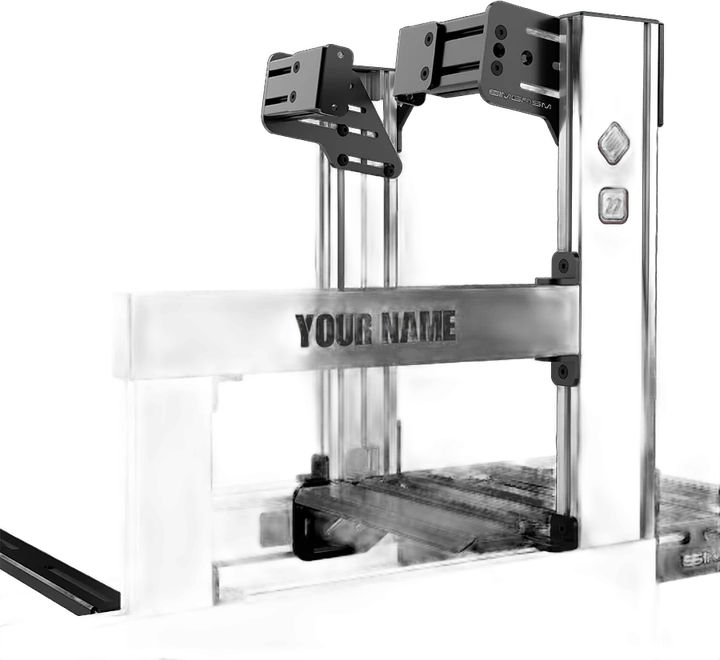
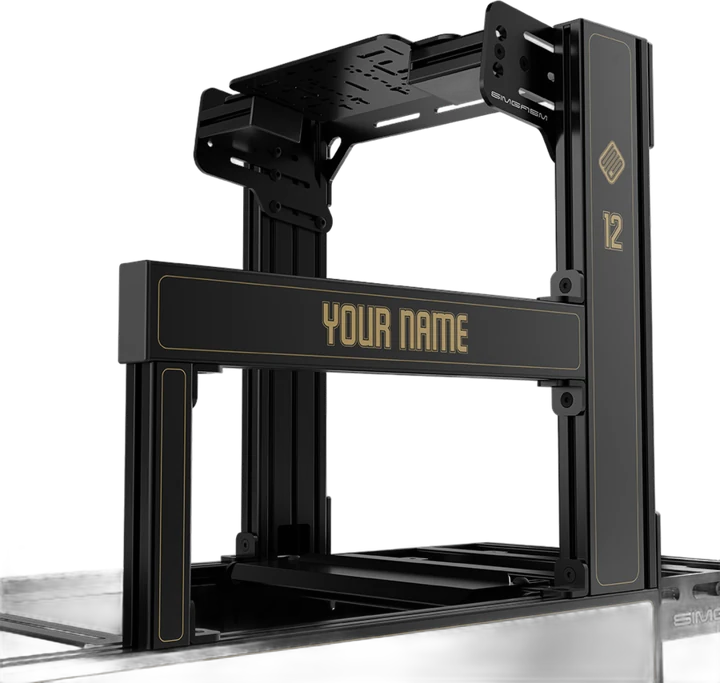
Simgasm popup: last rig is now the black and gold C120 (GreMi's pick)
Claude-Session: https://claude.ai/code/session_013GUch6DGr7L34YV3TfDRzF

diff --git a/public/overlay/simgasm/index.html b/public/overlay/simgasm/index.html
@@ -84,7 +84,7 @@
   const WORD = (q.get("word") || "simgasm").toLowerCase();
   // each with its own entrance, so the loop keeps moving
   const RIGS = [["rig-1", "from-right"], ["rig-2", "from-left"], ["rig-3", ""],
-                ["rig-4", "from-right"], ["rig-5", "from-left glow"]];
+                ["rig-4", "from-right"], ["rig-5", "from-left"]];
   const stage = document.getElementById("stage");
   const wait = ms => new Promise(r => setTimeout(r, ms));
   let playing = false, lastPlay = 0;
